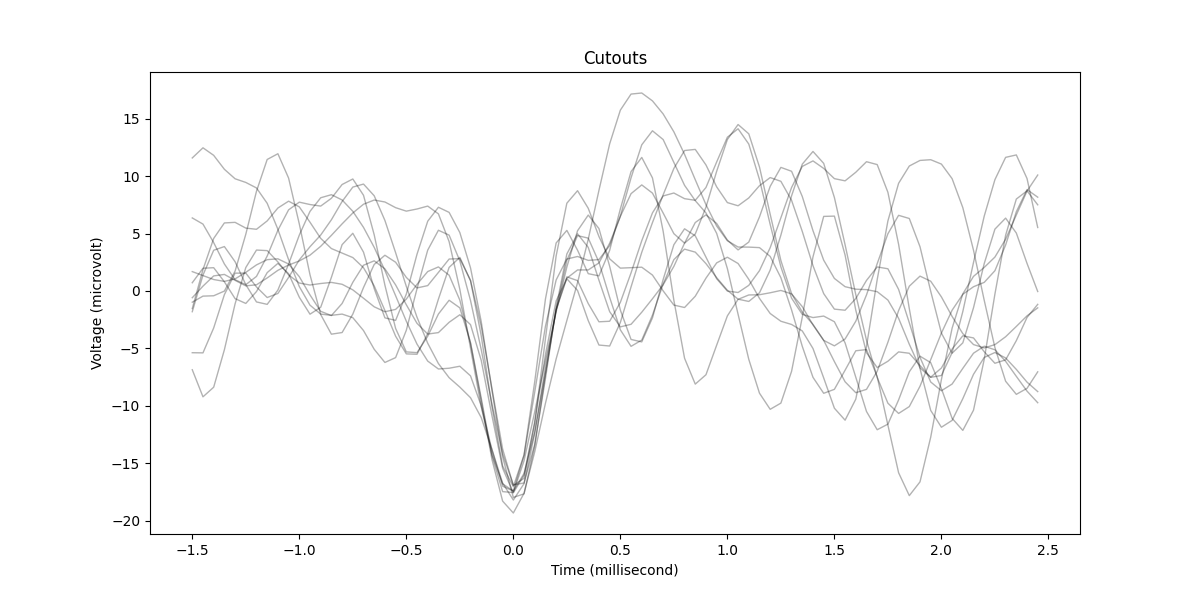
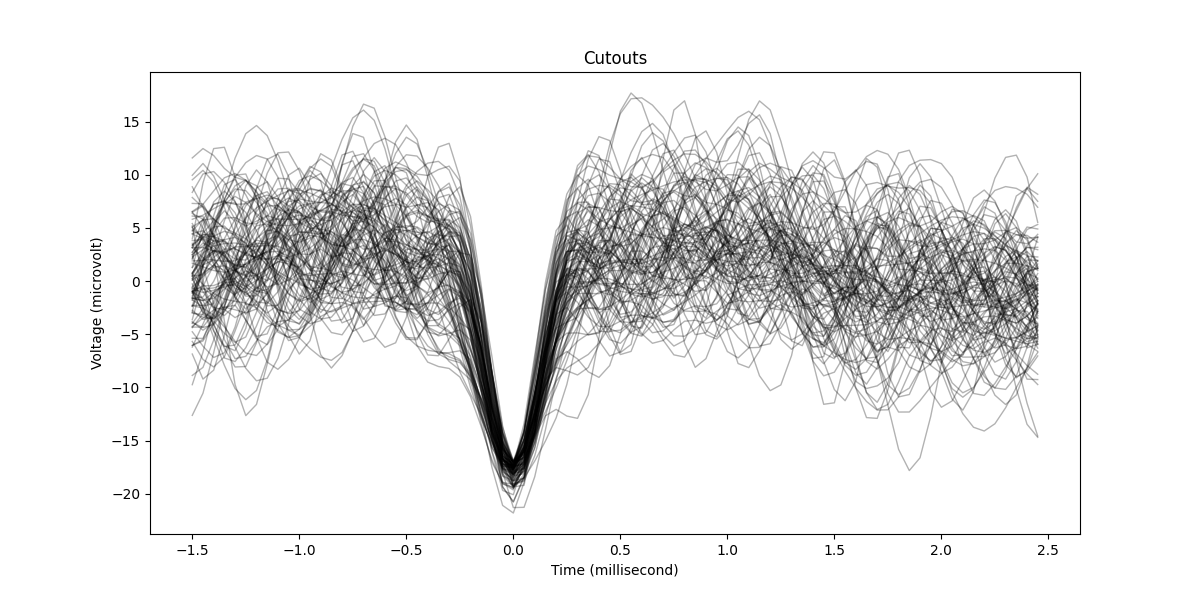
Add ISI analysis

diff --git a/main.py b/main.py
@@ -34,7 +34,8 @@ from modules.visualization import plot_signal
 from modules.filters import lowpass_filter, bandpass_filter, wavelet_filter
 from modules.preprocessing import preprocess_file, preprocess_signal
 from modules.processing import thresholding_voltage
-from modules.visualization import plot_processed_signal, plot_spike_raster
+from modules.visualization import plot_processed_signal, plot_spike_raster, plot_mean_waveform, plot_GMM_cluters
+from modules.analysis import isi_function, pca_dimension_reduction, gmm_clustering, umap_dimension_reduction
 import config
 
 # Open file
@@ -53,10 +54,29 @@ filtered_signal = preprocess_signal(signal=signal, fs=fs.magnitude)
 
 # Plot the filtered signal
 plot_signal(signal=filtered_signal, fs = fs.magnitude, title=f"Filtered Signal of Channel {CHANNEL_NMR}", dur = duration)
-spikes_in_range = thresholding_voltage(filtered_signal, fs.magnitude, electrode_stream)
+spikes_in_range, cutouts = thresholding_voltage(filtered_signal, fs.magnitude, electrode_stream)
 plot_processed_signal(signal=signal, filtered_signal=filtered_signal, fs=fs.magnitude, spikes_in_range = spikes_in_range, dur = duration)
 
 plot_spike_raster(spikes_in_range)
+
+# Analyze  ISI to get the violation percentage
+isi_function(spikes_in_range)
+
+# Plot the mean waveform
+plot_mean_waveform(cutouts,fs.magnitude)
+
+# Do PCA and UMAP analysis
+if(config.PCA_ANALYSIS == True):
+    transformed = pca_dimension_reduction(config.PCA_NUMBER,cutouts)
+    labels = gmm_clustering(config.GMM_COMPONENTS, transformed)
+    plot_GMM_cluters(cutouts, labels, config.GMM_COMPONENTS,pre=0.0015,post=0.0025)
+    
+
+
+
+
+
+
 
 
 

diff --git a/modules/analysis.py b/modules/analysis.py
@@ -7,6 +7,7 @@ import config
 import matplotlib.pyplot as plt
 from sklearn.mixture import GaussianMixture
 import umap
+import numpy as np
 
 
 
@@ -38,11 +39,35 @@ def gmm_clustering(n_components, transformed):
         _ = plt.xlabel('Principal Component 1')
         _ = plt.ylabel('Principal Component 2')
         _ = plt.axis('tight')
+    plt.savefig("./imgs/GMM Clustering.png")
     plt.show()
+    return labels
 
 
 def umap_dimension_reduction(cutouts):
     fit = umap.UMAP()
     u = fit.fit_transform(cutouts)
     return u
+
+
+def isi_function(spikes_in_range):
+    '''Do ISI (Inter-spike interval) analysis'''
+    isis = np.diff(spikes_in_range)  # in seconds
+    # Convert to ms
+    isis_ms = isis * 1000  
+
+    # Count violations below 1 ms (or 1.5–2 ms if you want to be conservative)
+    violations = np.sum(isis_ms < 1.0)
+    total_spikes = len(spikes_in_range)
+
+    print("Total spikes:", total_spikes)
+    print("Refractory violations (<1 ms):", violations)
+    print("Violation rate (%):", 100 * violations / total_spikes)
+    # Plot ISI 
+    plt.hist(isis_ms, bins=100, range=(0, 50))
+    plt.xlabel("ISI (ms)")
+    plt.ylabel("Count")
+    plt.title("Inter-spike interval histogram")
+    plt.savefig("./imgs/ISI Histogram.png")
+    plt.show()
 

diff --git a/modules/processing.py b/modules/processing.py
@@ -22,7 +22,7 @@ def thresholding_voltage(signal, fs, electrode_stream, range_in_s = (0,120)): #T
     plt.show()
 
     crossings = detect_threshold_crossings(signal, fs, spike_threshold, 0.003) # dead time of 3 ms
-    spks = align_to_minimum(signal, fs, crossings, 0.004) # search range 2 ms
+    spks = align_to_minimum(signal, fs, crossings, 0.002) # search range 2 ms
     timestamps = spks / fs
     #range_in_s = (0, 120)
     spikes_in_range = timestamps[(timestamps >= range_in_s[0]) & (timestamps <= range_in_s[1])]
@@ -31,8 +31,7 @@ def thresholding_voltage(signal, fs, electrode_stream, range_in_s = (0,120)): #T
     cutouts = extract_waveforms(signal, fs, spks, pre, post)
     
     print("Cutout array shape: " + str(cutouts.shape)) # number of spikes x number of samples
-    print("First few spks:", spks[:10])
 
-    plot_waveforms(cutouts,fs,pre,post,10)
-    return spikes_in_range
+    plot_waveforms(cutouts,fs,pre,post)
+    return spikes_in_range, cutouts
 

diff --git a/modules/visualization.py b/modules/visualization.py
@@ -40,6 +40,24 @@ def plot_processed_signal(signal, filtered_signal, fs, spikes_in_range, dur):
     plt.savefig(f'./imgs/Processed Signal.png')
     plt.show()
 
+def plot_GMM_cluters(cutouts, labels, n_components,pre,post, fs):
+        '''Plot GMM clusters on cutout data'''
+        _ = plt.figure(figsize=(8,8))
+        for i in range(n_components):
+            idx = labels == i
+            color = plt.rcParams['axes.prop_cycle'].by_key()['color'][i]
+            plot_waveforms(cutouts[idx,:], fs, pre, post, n=100, color=color, show=False)
+        plt.show()
+
+def plot_mean_waveform(cutouts, fs):
+    t = np.arange(0, 0.004, 1/fs)
+
+    mean_waveform = np.mean(cutouts, axis=0)
+    plt.plot(mean_waveform)
+    plt.title("Mean Waveform")
+    plt.savefig("./imgs/Mean Waveform.png")
+    plt.show()
+
 def plot_spike_raster(spikes_in_range):
     # plot spike train
     plt.plot(spikes_in_range, np.ones_like(spikes_in_range), '|', markersize=100, color='black')

diff --git a/config.py b/config.py
@@ -25,6 +25,11 @@ BANDPASS_HIGH = 3000 # To filter out electrical line noise
 # Wavelet filter params
 wavelet_filter = {'NAME':"db4",'LEVEL':None,'MODE':"soft",'TH':1.0}
 
-# Choose thresholding method
+# Dimensional reduction params
+PCA_ANALYSIS = True
+UMAP_ANALYSIS = False
 
 PCA_NUMBER = 2
+
+# Clustering params
+GMM_COMPONENTS = 3
